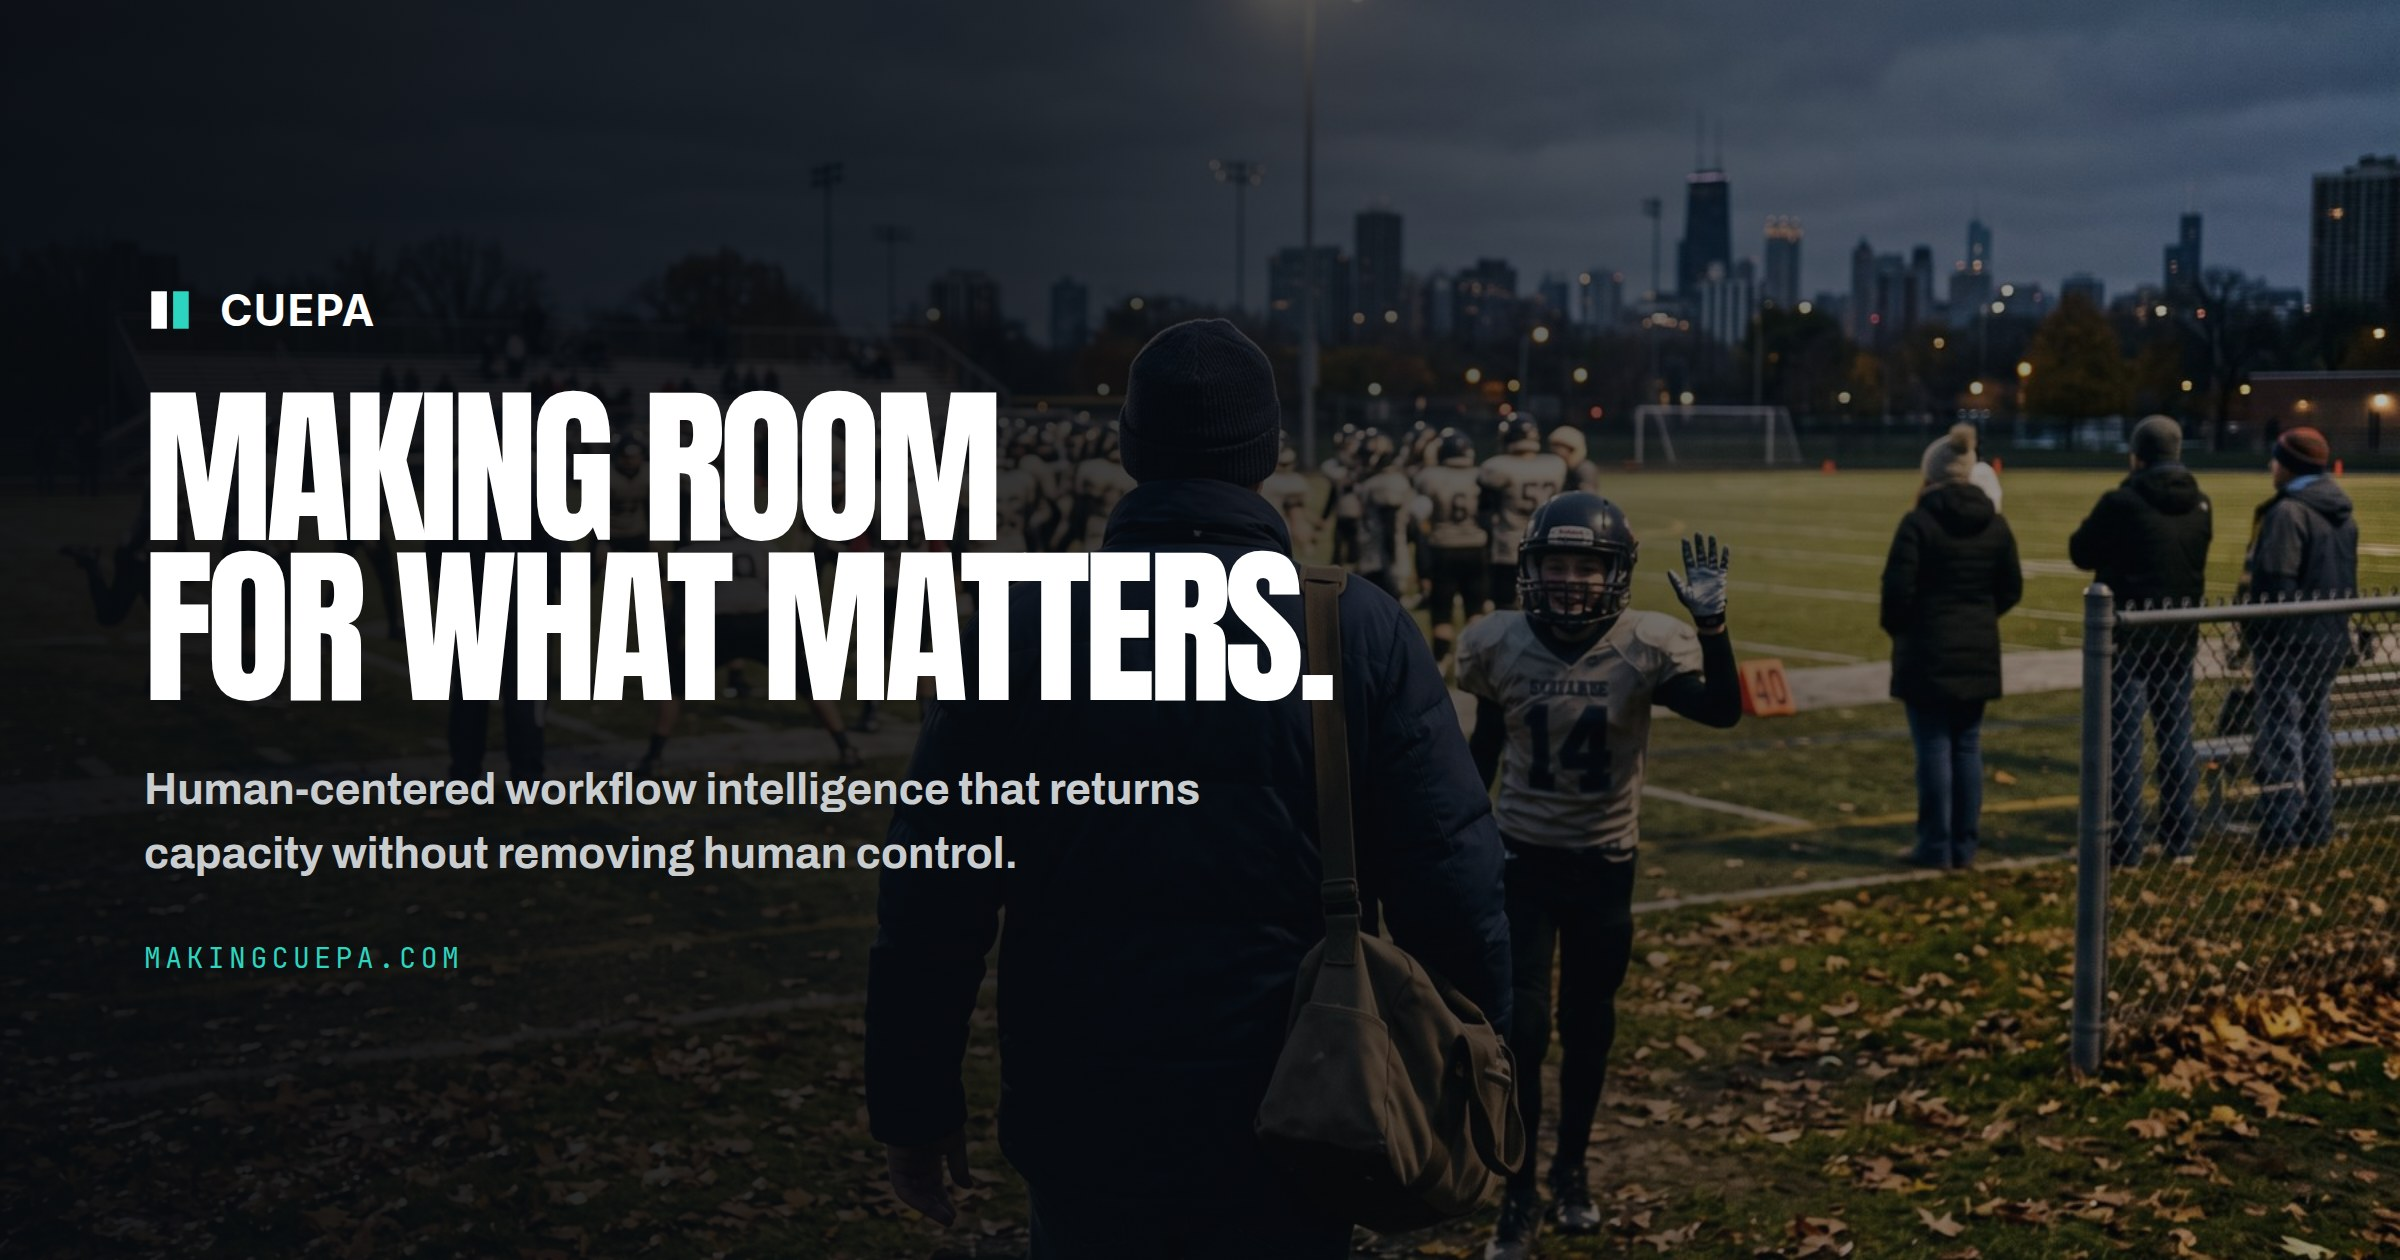
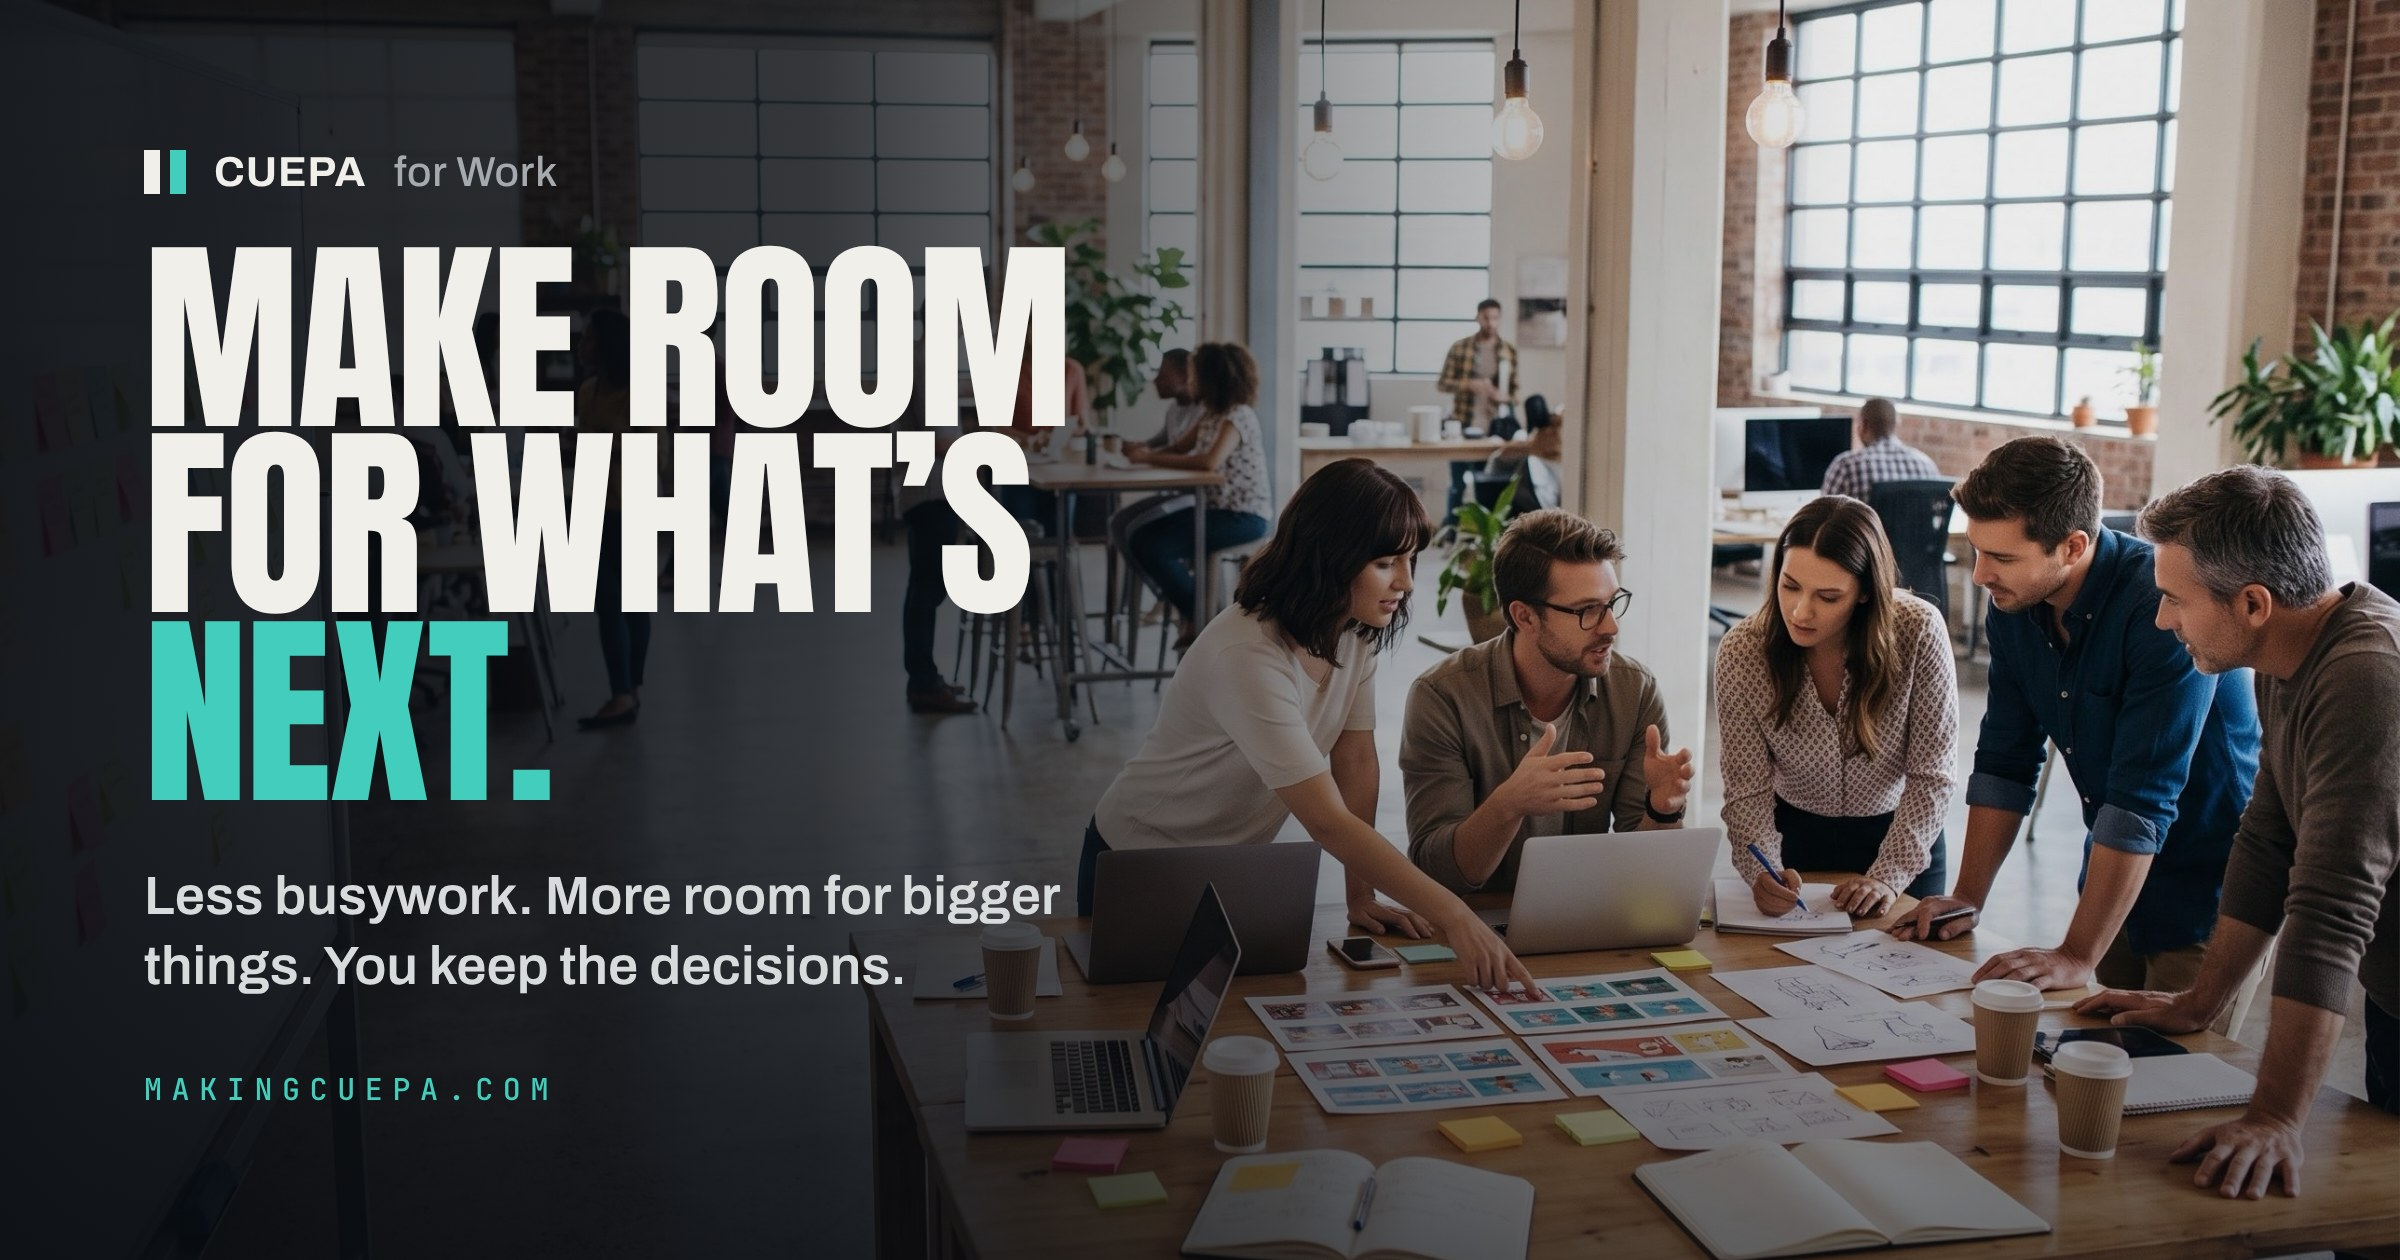
Link preview: new OG image — Make Room for What's Next (team photo)
Claude-Session: https://claude.ai/code/session_01D7ztKhK8fDBA5ysDjMZ2Ur

diff --git a/app/layout.tsx b/app/layout.tsx
@@ -7,7 +7,7 @@ export const metadata:Metadata={
   alternates:{canonical:"/"},
   icons:{icon:[{url:"/favicon.svg",type:"image/svg+xml"}],apple:"/apple-touch-icon.png"},
   openGraph:{type:"website",url:"/",siteName:"CUEPA for Work",title,description,
-    images:[{url:"/og.jpg",width:1200,height:630,alt:"A father walking onto the field toward his son at an evening football game, over the words Making Room For What Matters"}]},
+    images:[{url:"/og.jpg",width:1200,height:630,alt:"A small team planning together around a table in a bright studio, beside the words Make Room for What’s Next"}]},
   twitter:{card:"summary_large_image",title,description,images:["/og.jpg"]}
 };
 export default function RootLayout({children}:{children:React.ReactNode}){return <html lang="en"><head>
